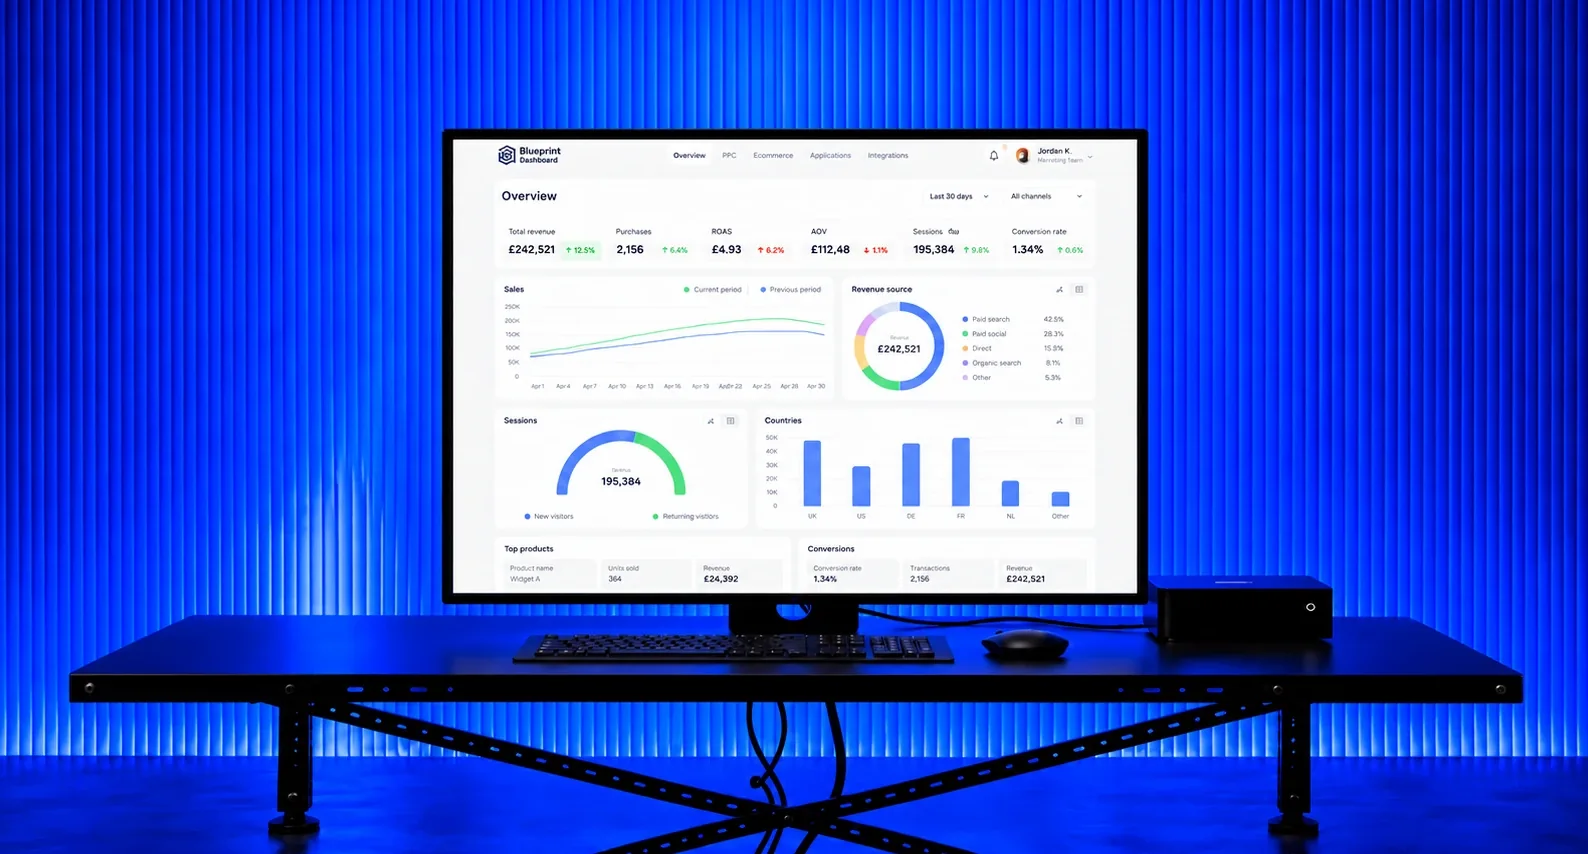
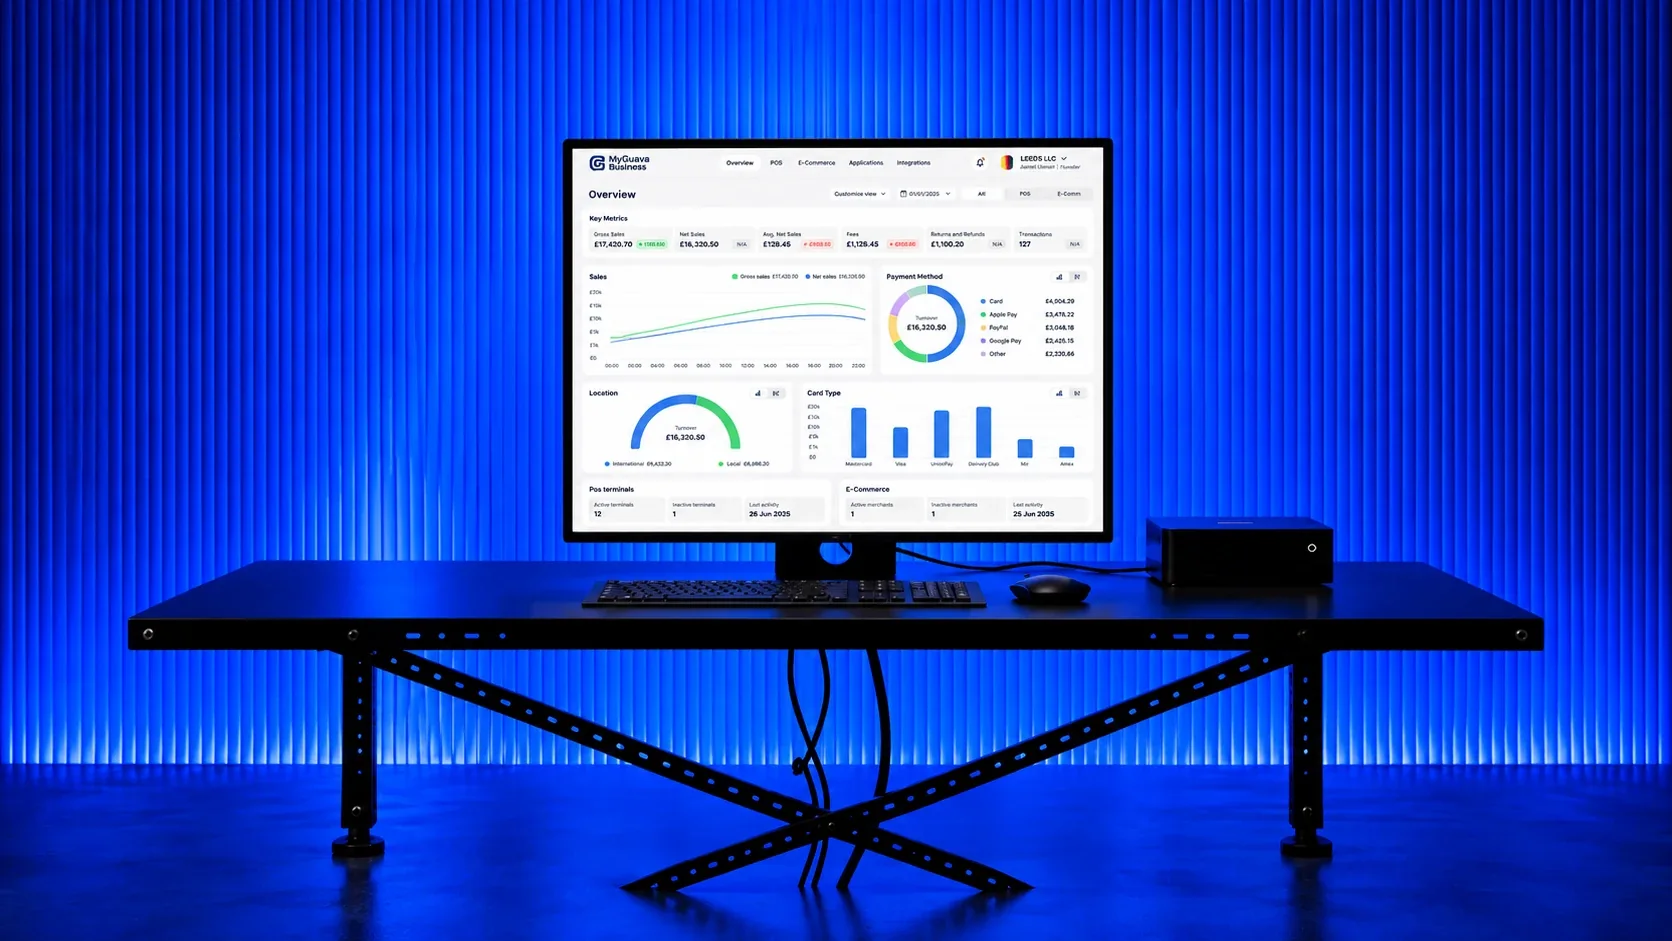
Home Business card: new photo with a smaller screen; the whole overview fits it (#42)
Claude-Session: https://claude.ai/code/session_01WngJWpMH1VWhCcpzKxJs4z

diff --git a/index.html b/index.html
@@ -40,7 +40,7 @@
          browser); set before paint so the page never flashes. -->
     <meta name="color-scheme" content="light dark">
     <script>try{if(localStorage.getItem('theme')==='dark')document.documentElement.setAttribute('data-theme','dark');}catch(e){}</script>
-    <link rel="stylesheet" href="styles.css?v=fast166">
+    <link rel="stylesheet" href="styles.css?v=fast167">
     <!-- Social meta -->
     <meta property="og:type" content="website">
     <meta property="og:title" content="Bahruz - Portfolio">
@@ -255,7 +255,7 @@
                          the charts drawing in (script.js, data-flow="dashboard"). -->
                     <div class="project-image project-image--biz" aria-hidden="true">
                         <div class="biz-stage">
-                            <img class="biz-desk" src="images/business-desk.webp?v=3" alt="" loading="lazy" decoding="async">
+                            <img class="biz-desk" src="images/business-desk.webp?v=4" alt="" loading="lazy" decoding="async">
                             <div class="biz-screen">
                                 <div class="case-stage" data-flow="dashboard">
                                 <img class="case-browser-shot" src="images/business-overview.jpg?v=2" alt="" loading="lazy" width="1600" height="1305" decoding="async">

diff --git a/styles.css b/styles.css
@@ -6046,8 +6046,8 @@ html[data-theme="dark"] .project-arrow::before {
     position: absolute;
     left: 50%;
     top: 50%;
-    width: max(100cqw, 185.95cqh);
-    aspect-ratio: 1588 / 854;
+    width: max(100cqw, 177.68cqh);
+    aspect-ratio: 1672 / 941;
     transform: translate(-50%, -50%);
 }
 
@@ -6059,10 +6059,10 @@ html[data-theme="dark"] .project-arrow::before {
 
 .biz-screen {
     position: absolute;
-    left: 28.59%;
-    top: 16.39%;
-    width: 43.01%;
-    height: 53.04%;
+    left: 34.27%;
+    top: 15.73%;
+    width: 31.70%;
+    height: 40.70%;
     display: flex;
     justify-content: center;
     overflow: hidden;
@@ -6070,13 +6070,13 @@ html[data-theme="dark"] .project-arrow::before {
 }
 
 /* The clip sizes its figures to its own width (cqw), as on the case page. */
-/* Fills the screen's width like a page in a browser; the bottom row runs
-   off below, as if there were more to scroll. */
+/* The whole overview on the screen: it fills it edge to edge (a touch
+   shorter than the page's own proportions; the layers are placed in %, so
+   they stay on their charts). */
 .biz-screen .case-stage {
     flex: none;
     width: 100%;
-    height: auto;
-    aspect-ratio: 1600 / 1305;
+    height: 100%;
     container-type: inline-size;
 }
 

diff --git a/about.html b/about.html
@@ -22,7 +22,7 @@
          browser); set before paint so the page never flashes. -->
     <meta name="color-scheme" content="light dark">
     <script>try{if(localStorage.getItem('theme')==='dark')document.documentElement.setAttribute('data-theme','dark');}catch(e){}</script>
-    <link rel="stylesheet" href="styles.css?v=fast166">
+    <link rel="stylesheet" href="styles.css?v=fast167">
     <link rel="stylesheet" href="about.css?v=fast1">
     <link rel="stylesheet" href="about-page.css?v=fast14">
     <!-- Social meta -->

diff --git a/finharbor.html b/finharbor.html
@@ -21,7 +21,7 @@
          browser); set before paint so the page never flashes. -->
     <meta name="color-scheme" content="light dark">
     <script>try{if(localStorage.getItem('theme')==='dark')document.documentElement.setAttribute('data-theme','dark');}catch(e){}</script>
-    <link rel="stylesheet" href="styles.css?v=fast166">
+    <link rel="stylesheet" href="styles.css?v=fast167">
     <link rel="stylesheet" href="about.css?v=fast1">
     <!-- Social meta -->
     <meta property="og:type" content="website">

diff --git a/myguava-business.html b/myguava-business.html
@@ -21,7 +21,7 @@
          browser); set before paint so the page never flashes. -->
     <meta name="color-scheme" content="light dark">
     <script>try{if(localStorage.getItem('theme')==='dark')document.documentElement.setAttribute('data-theme','dark');}catch(e){}</script>
-    <link rel="stylesheet" href="styles.css?v=fast166">
+    <link rel="stylesheet" href="styles.css?v=fast167">
     <link rel="stylesheet" href="about.css?v=fast1">
     <!-- Social meta -->
     <meta property="og:type" content="website">

diff --git a/myguava-design-system.html b/myguava-design-system.html
@@ -22,7 +22,7 @@
          browser); set before paint so the page never flashes. -->
     <meta name="color-scheme" content="light dark">
     <script>try{if(localStorage.getItem('theme')==='dark')document.documentElement.setAttribute('data-theme','dark');}catch(e){}</script>
-    <link rel="stylesheet" href="styles.css?v=fast166">
+    <link rel="stylesheet" href="styles.css?v=fast167">
     <link rel="stylesheet" href="about.css?v=fast1">
     <!-- Social meta -->
     <meta property="og:type" content="website">

diff --git a/myguava-payment.html b/myguava-payment.html
@@ -22,7 +22,7 @@
          browser); set before paint so the page never flashes. -->
     <meta name="color-scheme" content="light dark">
     <script>try{if(localStorage.getItem('theme')==='dark')document.documentElement.setAttribute('data-theme','dark');}catch(e){}</script>
-    <link rel="stylesheet" href="styles.css?v=fast166">
+    <link rel="stylesheet" href="styles.css?v=fast167">
     <link rel="stylesheet" href="about.css?v=fast1">
     <!-- Social meta -->
     <meta property="og:type" content="website">

diff --git a/pos-terminal.html b/pos-terminal.html
@@ -22,7 +22,7 @@
          browser); set before paint so the page never flashes. -->
     <meta name="color-scheme" content="light dark">
     <script>try{if(localStorage.getItem('theme')==='dark')document.documentElement.setAttribute('data-theme','dark');}catch(e){}</script>
-    <link rel="stylesheet" href="styles.css?v=fast166">
+    <link rel="stylesheet" href="styles.css?v=fast167">
     <link rel="stylesheet" href="about.css?v=fast1">
     <!-- Social meta -->
     <meta property="og:type" content="website">

diff --git a/remitone.html b/remitone.html
@@ -22,7 +22,7 @@
          browser); set before paint so the page never flashes. -->
     <meta name="color-scheme" content="light dark">
     <script>try{if(localStorage.getItem('theme')==='dark')document.documentElement.setAttribute('data-theme','dark');}catch(e){}</script>
-    <link rel="stylesheet" href="styles.css?v=fast166">
+    <link rel="stylesheet" href="styles.css?v=fast167">
     <link rel="stylesheet" href="about.css?v=fast1">
     <!-- Social meta -->
     <meta property="og:type" content="website">
